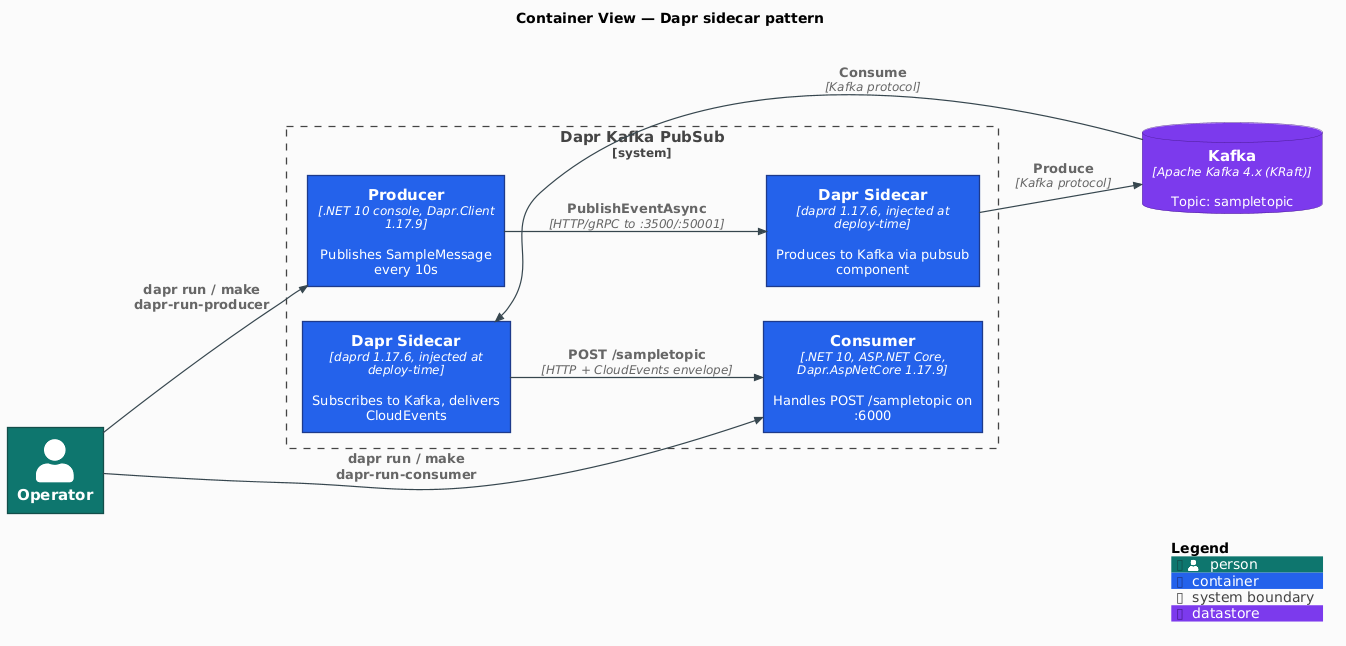
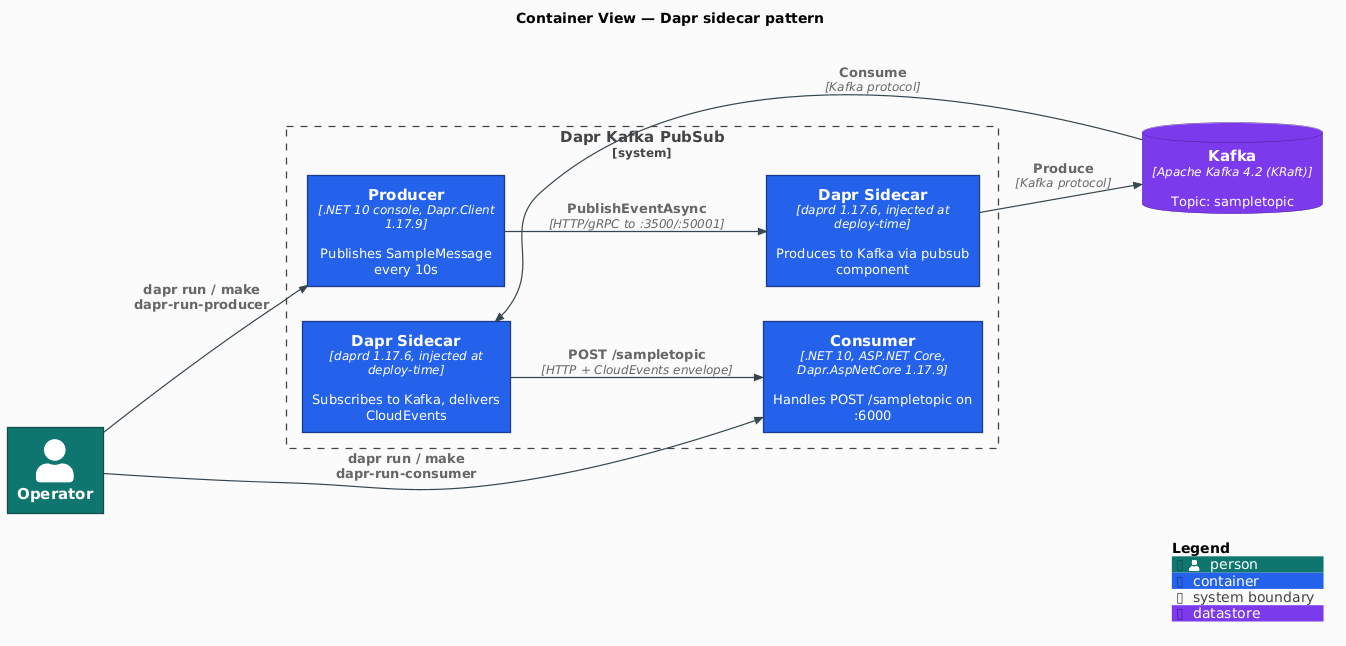
chore: project-review remediation — CI gates, config floor, dead code, tests (#81)
Addresses the /project-review findings. Highlights (two were CONFIRMED
pre-existing BLOCKING CI bugs that made the security/diagram gates inert):

CI (.github/workflows/ci.yml + cleanup-runs.yml):
- static-check job ran `make lint`, so mermaid-lint/diagrams-check/vulncheck/
  secrets/trivy-fs/trivy-config/deps-prune NEVER ran in CI. Now runs the full
  `make static-check` composite (+ jdx/mise-action for trivy/gitleaks; setup-dotnet
  stays — mise's dotnet provider is symlink-only).
- `code` paths-filter was ALWAYS true (multi-line negation under picomatch `some`
  → a .md still matches `!LICENSE`). Switched to the canonical single-line extglob
  `!(**.md|LICENSE|.gitignore|.claudeignore|.claude/**|docs/**)` + CLAUDE.md
  (verified with picomatch@2.3.1 + dot:true: docs→skip, code→run).
- docker tag job gained `!failure() && !cancelled()` (an explicit if: strips the
  implicit success() gate → a failing build/test on a tag was still publishing).
- heavy jobs gained the same status guard; step-name drift (+/—/parentheticals) fixed.
- cleanup-runs: per-workflow retention (group_by workflowName; a global minimum
  could deregister ci.yml) + exclude open-PR head SHAs (+ pull-requests: read).

Makefile / config floor:
- deleted dead Minikube `scripts/env.sh` + stale `kafka/client.properties` (0 refs).
- added committed `.env.example` (source of truth), gitignored `.env`, repointed the
  Renovate `.env`→`.env.example` manager; `-include .env` so `.env` overrides `make`.
[…]

diff --git a/tests/producer.UnitTests/ProducerPublishTests.cs b/tests/producer.UnitTests/ProducerPublishTests.cs
@@ -14,50 +14,47 @@ using TUnit.Core;
 // layer's responsibility (see e2e/e2e-compose-test.sh + e2e/e2e-test.sh).
 public sealed class ProducerPublishTests
 {
-    // Contract under test: a single publish iteration of the producer must call
-    // DaprClient.PublishEventAsync with pubsub name "sampletopic", topic name
-    // "sampletopic", and a non-null SampleMessage payload.
+    // Contract under test: one iteration of the REAL producer loop
+    // (Program.StartMessageGeneratorAsync) must call DaprClient.PublishEventAsync
+    // with pubsub name "sampletopic", topic name "sampletopic", and a non-null
+    // SampleMessage that the production code generated. Driving the real loop (not
+    // calling the fake directly) is what makes this a contract test rather than a
+    // tautology that asserts the mock recorded its own invocation.
 
     [Test]
-    public async Task PublishEventAsync_IsCalledWithExpectedPubsubTopicAndMessage()
+    public async Task StartMessageGenerator_PublishesToSampletopicWithGeneratedMessage()
     {
         var fakeClient = A.Fake<DaprClient>();
+        using var cts = new CancellationTokenSource();
 
-        var message = new SampleMessage
-        {
-            CorrelationId = Guid.NewGuid(),
-            MessageId = Guid.NewGuid(),
-            Message = "itest #square",
-            CreationDate = DateTime.UtcNow,
-            Sentiment = "neutral",
-            PreviousAppTimestamp = DateTime.UtcNow,
-        };
-
-        await fakeClient.PublishEventAsync("sampletopic", "sampletopic", message, CancellationToken.None);
+        await Producer.Program.StartMessageGeneratorAsync(
+            fakeClient, cts.Token, maxIterations: 1, delayBetweenIterations: TimeSpan.Zero);
 
         A.CallTo(() => fakeClient.PublishEventAsync(
                 "sampletopic",
                 "sampletopic",
-                A<SampleMessage>.That.Matches(m => m.MessageId == message.MessageId),
+                A<SampleMessage>.That.Matches(m =>
+                    m != null && m.MessageId != Guid.Empty && !string.IsNullOrEmpty(m.Message)),
                 A<CancellationToken>.Ignored))
             .MustHaveHappenedOnceExactly();
     }
 
     [Test]
-    public async Task PublishEventAsync_PropagatesCancellationToken()
+    public async Task StartMessageGenerator_PropagatesCancellationTokenToPublish()
     {
         var fakeClient = A.Fake<DaprClient>();
         using var cts = new CancellationTokenSource();
-        var message = new SampleMessage { MessageId = Guid.NewGuid(), Message = "x", Sentiment = "n/a" };
 
-        await fakeClient.PublishEventAsync("sampletopic", "sampletopic", message, cts.Token);
+        await Producer.Program.StartMessageGeneratorAsync(
+            fakeClient, cts.Token, maxIterations: 1, delayBetweenIterations: TimeSpan.Zero);
 
+        // The exact token handed to the loop must flow through to the publish call.
         A.CallTo(() => fakeClient.PublishEventAsync(
                 A<string>.Ignored,
                 A<string>.Ignored,
                 A<SampleMessage>.Ignored,
                 cts.Token))
-            .MustHaveHappened();
+            .MustHaveHappenedOnceExactly();
     }
 
     // Resilience contract: a transient publish failure must not terminate the

diff --git a/CLAUDE.md b/CLAUDE.md
@@ -59,7 +59,6 @@ All Kafka paths run upstream Apache Kafka in KRaft mode (no Zookeeper). Bitnami 
 ```
 producer/           Console app (Exe) - publishes SampleMessage every 10s
   Program.cs        DaprClient → PublishEventAsync("sampletopic", "sampletopic", ...)
-  deploy/           Dapr component YAML for local standalone mode
 
 consumer/           ASP.NET Core Web app - listens on port 6000
   Program.cs        Host builder, binds to http://*:6000
@@ -156,14 +155,14 @@ Two diagram gates are wired into `static-check`:
 - Each project has its own `nuget.config` pointing to NuGet v3 feed
 - Docker images: both producer and consumer use `dotnet/aspnet:10.0` base (Dapr.AspNetCore requires ASP.NET runtime)
 - `Directory.Build.props` enforces `TreatWarningsAsErrors` and `RestorePackagesWithLockFile` across all projects
-- Renovate covers 82 dependencies across 7 managers: `mise` (`.mise.toml` aqua backends + core tools), `nuget` (`*.csproj`), `dockerfile` (`FROM` digests), `docker-compose` (`image:`), `kubernetes` (`k8s/*.yaml` `image:` fields), `github-actions` (`uses:` refs), and four `custom.regex` managers — Makefile plain version constants (including `PLANTUML_VERSION`), Makefile `repo:tag@sha256:` image refs, `.env` Kafka image, and inline `# renovate:` annotations above env-block constants in `.github/workflows/*.yml` (CST + ZAP versions). `.mise.toml` does NOT carry `# renovate:` comments — the native `mise` manager tracks every entry directly. `plantuml/plantuml` has `automerge: false` (a bump needs a manual `make diagrams` re-render); `C4_PLANTUML_VERSION` (vendored stdlib) is untracked — bump via `make vendor-diagrams`.
+- Renovate covers 80+ dependencies across 7 managers: `mise` (`.mise.toml` aqua backends + core tools), `nuget` (`*.csproj`), `dockerfile` (`FROM` digests), `docker-compose` (`image:`), `kubernetes` (`k8s/*.yaml` `image:` fields), `github-actions` (`uses:` refs), and four `custom.regex` managers — Makefile plain version constants (including `PLANTUML_VERSION`), Makefile `repo:tag@sha256:` image refs, `.env.example` Kafka image, and inline `# renovate:` annotations above env-block constants in `.github/workflows/*.yml` (CST + ZAP versions). `.mise.toml` does NOT carry `# renovate:` comments — the native `mise` manager tracks every entry directly. `plantuml/plantuml` has `automerge: false` (a bump needs a manual `make diagrams` re-render); `C4_PLANTUML_VERSION` (vendored stdlib) is untracked — bump via `make vendor-diagrams`.
 
 ## CI
 
 GitHub Actions (`.github/workflows/ci.yml`) runs on push to `main`, tag pushes (`v*`), and pull requests:
 
-- `changes` (`dorny/paths-filter` detector) gates the heavy jobs — doc-only pushes skip downstream without deadlocking the Rulesets `ci-pass` requirement. Force-true on `refs/tags/*` so publish runs always go through the full pipeline. A second `docs` output (`**.md` + `docs/**`) gates **only** `static-check` so a doc-only change (README Mermaid flowcharts, `docs/diagrams/*.puml`) still runs `mermaid-lint` + `diagrams-check` while `build`/`test`/`e2e`/`e2e-kind` skip
-- `static-check` → gates everything downstream (format + warnings-as-errors + hadolint)
+- `changes` (`dorny/paths-filter` detector) gates the heavy jobs — doc-only pushes skip downstream without deadlocking the Rulesets `ci-pass` requirement. Force-true on `refs/tags/*` so publish runs always go through the full pipeline. A second `docs` output (`**.md` + `docs/**`) gates **only** `static-check` so a doc-only change (the README Mermaid Event Flow diagram, `docs/diagrams/*.puml`) still runs `mermaid-lint` + `diagrams-check` while `build`/`test`/`e2e`/`e2e-kind` skip
+- `static-check` → runs the full `make static-check` composite gate (format + warnings-as-errors + hadolint + vulncheck + gitleaks + trivy-fs/config + mermaid-lint + diagrams-check + deps-prune) and gates everything downstream
 - `build`, `test`, `integration-test` run in parallel after `static-check` passes
 - `e2e` (Compose) runs after `build` + `test` — `make e2e-compose` exercises the full Dapr round-trip against a local `apache/kafka:4.2.0` broker
 - `e2e-kind` runs after `build` + `test` — `helm/kind-action` creates a KinD cluster, then `make k8s-dapr-deploy → k8s-kafka-deploy (Strimzi 1.0) → k8s-workload-deploy → k8s-test` validates the production K8s path on every push
@@ -185,7 +184,7 @@ The weekly cleanup workflow (`.github/workflows/cleanup-runs.yml`) prunes runs o
 
 Deferred items waiting on upstream. Re-evaluate on each `/upgrade-analysis` pass.
 
-_(none currently — the kubectl/kindest-node 1.36 item was resolved by the kind 0.32.0 coordinated bump: kind 0.32.0 + kubectl 1.36.2 + `KIND_NODE_IMAGE` v1.36.1, all aligned on the 1.36 line, no skew.)_
+_(none currently.)_
 
 ## Skills
 

diff --git a/README.md b/README.md
@@ -8,7 +8,7 @@
 
 Delivers a production-ready Dapr pub/sub implementation in C# on .NET 10: a console producer and an ASP.NET Core consumer exchange `SampleMessage` events through Dapr sidecars over Apache Kafka. The consumer unwraps CloudEvents envelopes via Dapr's middleware, filters on `event.type == com.dapr.event.sent`, and returns RFC 7807 ProblemDetails on malformed input. The same workload runs unchanged on two paths — Docker Compose against `apache/kafka:4.2.0` for fast iteration, or Kubernetes via KinD with Dapr 1.17 (Helm 4) and Strimzi 1.0 provisioning a single-broker KRaft Kafka cluster on the `kafka.strimzi.io/v1` API.
 
-A three-layer test pyramid on TUnit 1.44 + FakeItEasy covers unit (wire schema, publish-loop resilience), integration (consumer HTTP, CloudEvents middleware, and ProblemDetails contract via `WebApplicationFactory`), and end-to-end (full Dapr round-trip on Compose and KinD, with the `e2e-kind` CI job validating the production K8s path on every push). Tag releases pass five supply-chain gates before publishing to GHCR — Trivy CVE scan (CRITICAL/HIGH blocking), `container-structure-test` filesystem and non-root posture checks, boot-marker smoke test, OWASP ZAP DAST baseline against the consumer, and cosign keyless OIDC signing of the multi-arch (`linux/amd64` + `linux/arm64`) digest. Renovate tracks every version pin across `.mise.toml`, `Makefile`, NuGet, `.env`, Dockerfiles, k8s manifests, GitHub Actions, and inline workflow annotations (81 deps across 7 managers).
+A three-layer test pyramid on TUnit 1.44 + FakeItEasy covers unit (wire schema, publish-loop resilience), integration (consumer HTTP, CloudEvents middleware, and ProblemDetails contract via `WebApplicationFactory`), and end-to-end (full Dapr round-trip on Compose and KinD, with the `e2e-kind` CI job validating the production K8s path on every push). Tag releases pass five supply-chain gates before publishing to GHCR — Trivy CVE scan (CRITICAL/HIGH blocking), `container-structure-test` filesystem and non-root posture checks, boot-marker smoke test, OWASP ZAP DAST baseline against the consumer, and cosign keyless OIDC signing of the multi-arch (`linux/amd64` + `linux/arm64`) digest. Renovate tracks every version pin across `.mise.toml`, `Makefile`, NuGet, `.env.example`, Dockerfiles, k8s manifests, GitHub Actions, and inline workflow annotations (80+ deps across 7 managers).
 
 <p align="center"><img src="docs/diagrams/out/c4-context.png" alt="System Context — the Operator runs the demo, which publishes and subscribes to Apache Kafka via Dapr sidecars" width="900"></p>
 
@@ -72,7 +72,7 @@ make deps      # runs `mise install` (no sudo; installs to $HOME/.local/share/mi
 
 ### Cluster Topology — KinD
 
-<p align="center"><img src="docs/diagrams/out/c4-deployment.png" alt="Deployment View — a KinD cluster (kindest/node v1.36.1) with the Dapr control plane in dapr-system, Strimzi-managed Kafka in kafka, and producer/consumer pods (each with a daprd sidecar) plus a LoadBalancer Service in dapr-app; host-side cloud-provider-kind allocates the LoadBalancer IP" width="900"></p>
+<p align="center"><img src="docs/diagrams/out/c4-deployment.png" alt="Deployment View — a KinD cluster (kindest/node v1.36.1) with the Dapr control plane in dapr-system, Strimzi-managed Kafka in kafka, and producer/consumer pods (each with a daprd sidecar) plus a LoadBalancer Service in dapr-app; host-side cloud-provider-kind allocates the LoadBalancer IP" width="846"></p>
 
 ### Event Flow — `dapr-app` namespace
 
@@ -297,7 +297,7 @@ GitHub Actions runs on push to `main`, tag pushes (`v*`), and pull requests. The
 | Job | Triggers | Steps |
 |-----|----------|-------|
 | **changes** | push, PR, tags | `dorny/paths-filter` detector — `outputs.code` skips heavy jobs on doc-only changes (no Rulesets deadlock); `outputs.docs` gates `static-check` only so `mermaid-lint` + `diagrams-check` still run on Markdown/`docs/` edits. Force-true on `refs/tags/*` |
-| **static-check** | code change | Format check, warnings-as-errors, hadolint |
+| **static-check** | code or docs change | Full `make static-check` composite: format + warnings-as-errors + hadolint + vulncheck + gitleaks + Trivy fs/config + mermaid-lint + diagrams-check + deps-prune |
 | **build** | after static-check | Build the solution |
 | **test** | after static-check | Run unit tests, upload results artifact |
 | **integration-test** | after static-check | Run integration tests, upload results artifact |
@@ -342,7 +342,7 @@ A weekly **cleanup** workflow (`cleanup-runs.yml`) prunes runs older than 7 days
 
 No external secrets or `vars.*` are required.
 
-[Renovate](https://docs.renovatebot.com/) keeps dependencies up to date with platform automerge enabled. Every version pin is tracked: `.mise.toml` (aqua backends + core tools), `Makefile` constants annotated with `# renovate:` (Mermaid CLI, Dapr chart, Strimzi operator), `.env` (Kafka image digest), `*.csproj` (NuGet), Dockerfile `FROM` digests, docker-compose `image:` fields, `k8s/*.yaml` `image:` fields (via the `kubernetes` manager), GitHub Actions `uses:` refs, and inline `# renovate:` annotations above env-block constants in `.github/workflows/*.yml` (container-structure-test, OWASP ZAP).
+[Renovate](https://docs.renovatebot.com/) keeps dependencies up to date with platform automerge enabled. Every version pin is tracked: `.mise.toml` (aqua backends + core tools), `Makefile` constants annotated with `# renovate:` (Mermaid CLI, Dapr chart, Strimzi operator), `.env.example` (Kafka image digest), `*.csproj` (NuGet), Dockerfile `FROM` digests, docker-compose `image:` fields, `k8s/*.yaml` `image:` fields (via the `kubernetes` manager), GitHub Actions `uses:` refs, and inline `# renovate:` annotations above env-block constants in `.github/workflows/*.yml` (container-structure-test, OWASP ZAP).
 
 ## Contributing
 